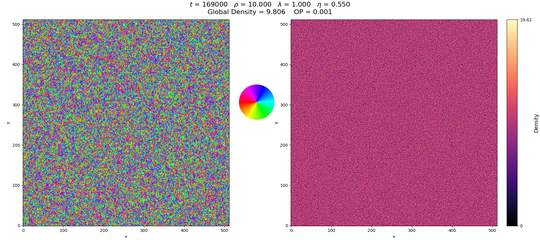
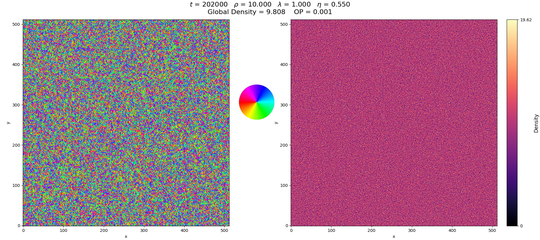
Atualiza painel com novas simulações

diff --git a/painel/painel_interativo.html b/painel/painel_interativo.html
@@ -1,0 +1,18 @@
+
+<html>
+<head>
+  <meta charset="UTF-8" />
+  <title>Painel Interativo ETA × LAMBDA</title>
+  <style>
+    body { font-family: sans-serif; }
+    table { border-collapse: collapse; margin-top: 20px; }
+    td { padding: 6px; border: 1px solid #ccc; text-align: center; vertical-align: middle; }
+    img { display: block; margin: auto; border-radius: 6px; }
+    small { display: block; margin-top: 4px; color: #555; }
+  </style>
+</head>
+<body>
+<h2>Painel Interativo ETA × LAMBDA</h2>
+<table>
+</table>
+</body></html>

diff --git a/painel_interativo.html b/painel_interativo.html
@@ -1,7 +1,7 @@
 
 <html>
 <head>
-  <meta charset="UTF-8">
+  <meta charset="UTF-8" />
   <title>Painel Interativo ETA × LAMBDA</title>
   <style>
     body { font-family: sans-serif; }

diff --git a/painel_interativo.py b/painel_interativo.py
@@ -1,0 +1,101 @@
+import os
+import shutil
+from pathlib import Path
+from PIL import Image
+import subprocess
+
+# Caminhos
+base_dir = Path("analise/RHO_10.0")
+output_dir = Path("painel")
+frames_dir = output_dir / "frames"
+videos_dir = output_dir / "videos"
+output_html = output_dir / "painel_interativo.html"
+
+# Criar pastas
+frames_dir.mkdir(parents=True, exist_ok=True)
+videos_dir.mkdir(parents=True, exist_ok=True)
+
+# Coletar dados do painel
+painel_info = []
+
+for eta_dir in base_dir.glob("ETA_*"):
+    eta_val = float(eta_dir.name.replace("ETA_", ""))
+    for lambda_dir in eta_dir.glob("LAMBDA_*"):
+        lambda_val = float(lambda_dir.name.replace("LAMBDA_", ""))
+        imagens_path = lambda_dir / "TESTL/imagens"
+
+        # Frame final (miniatura)
+        frame_files = sorted(imagens_path.glob("frame_*.png"))
+        if not frame_files:
+            continue
+        frame_final = frame_files[-1]
+        frame_out_name = f"frame_ETA_{eta_val}_LAMBDA_{lambda_val}.png"
+
+        # Redimensionar mantendo proporcao (altura fixa = 240px)
+        img = Image.open(frame_final)
+        aspect_ratio = img.width / img.height
+        target_height = 240
+        target_width = int(target_height * aspect_ratio)
+        img_resized = img.resize((target_width, target_height), Image.LANCZOS)
+        img_resized.save(frames_dir / frame_out_name)
+
+        # Copiar vídeo
+        video_files = list(imagens_path.glob("*.mp4"))
+        if not video_files:
+            continue
+        video_file = video_files[0]
+        video_out_name = f"video_ETA_{eta_val}_LAMBDA_{lambda_val}.mp4"
+        shutil.copy(video_file, videos_dir / video_out_name)
+
+        painel_info.append((eta_val, lambda_val, frame_out_name, video_out_name))
+
+# Organizar parametros unicos
+etas = sorted(set(p[0] for p in painel_info), reverse=True)
+lambdas = sorted(set(p[1] for p in painel_info))
+
+# Criar HTML
+with open(output_html, "w") as f:
+    f.write("""
+<html>
+<head>
+  <meta charset=\"UTF-8\" />
+  <title>Painel Interativo ETA × LAMBDA</title>
+  <style>
+    body { font-family: sans-serif; }
+    table { border-collapse: collapse; margin-top: 20px; }
+    td { padding: 6px; border: 1px solid #ccc; text-align: center; vertical-align: middle; }
+    img { display: block; margin: auto; border-radius: 6px; }
+    small { display: block; margin-top: 4px; color: #555; }
+  </style>
+</head>
+<body>
+<h2>Painel Interativo ETA × LAMBDA</h2>
+<table>
+""")
+
+    for eta in etas:
+        f.write("<tr>\n")
+        for lamb in lambdas:
+            match = next((p for p in painel_info if p[0] == eta and p[1] == lamb), None)
+            if match:
+                frame_file, video_file = match[2], match[3]
+                f.write(f"<td><a href='videos/{video_file}' target='_blank'>")
+                f.write(f"<img src='frames/{frame_file}' height='240'></a>")
+                f.write(f"<small>η = {eta:.2f}, λ = {lamb:.2f}</small>")
+                f.write("</td>\n")
+            else:
+                f.write("<td style='background:#eee;'></td>\n")
+        f.write("</tr>\n")
+
+    f.write("</table>\n</body></html>\n")
+
+print("\n✅ Painel atualizado com sucesso em: painel/painel_interativo.html")
+
+# Git commit e push automaticamente
+try:
+    subprocess.run(["git", "add", "."], check=True)
+    subprocess.run(["git", "commit", "-m", "Atualiza painel com novas simulações"], check=True)
+    subprocess.run(["git", "push"], check=True)
+    print("✅ Atualizações enviadas para o GitHub Pages!")
+except subprocess.CalledProcessError:
+    print("⚠  Nenhuma alteração nova para commitar ou erro durante o push.")
